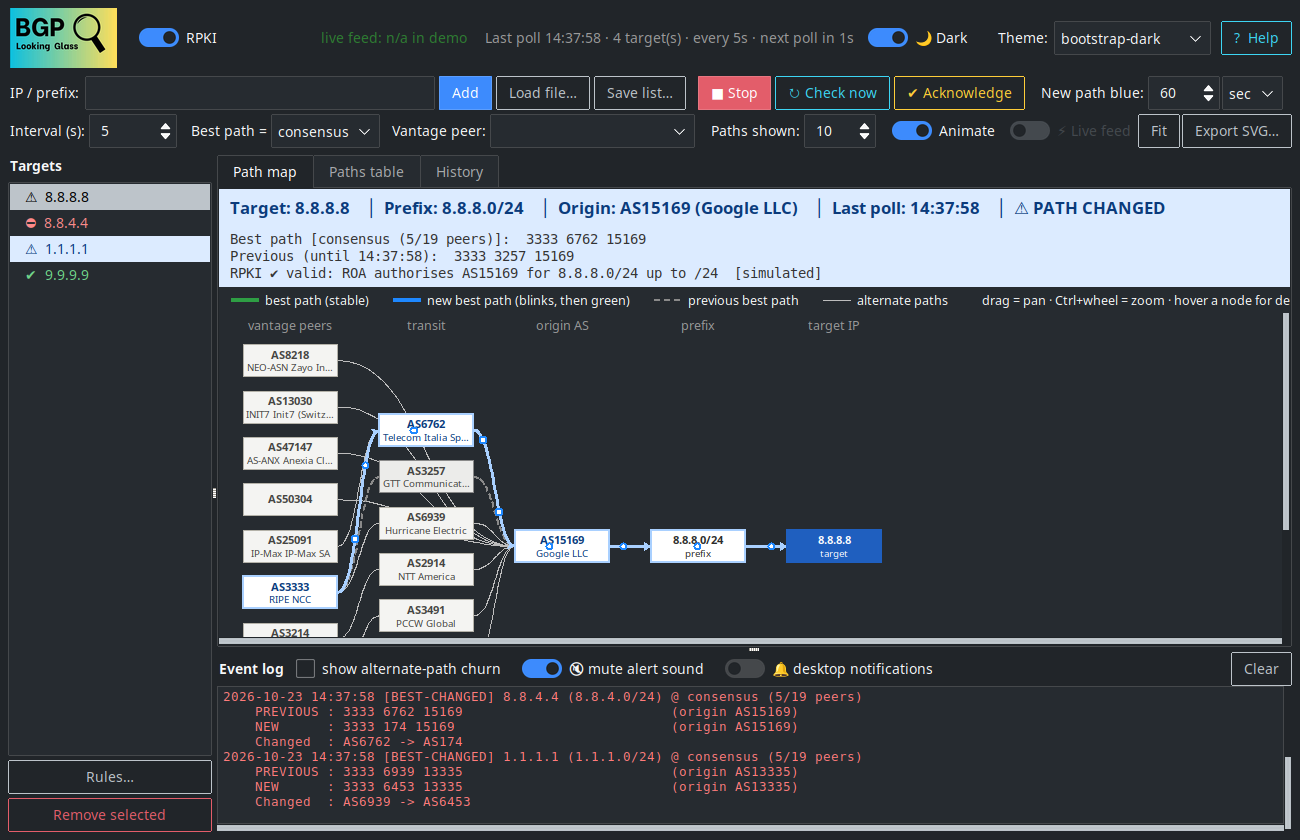
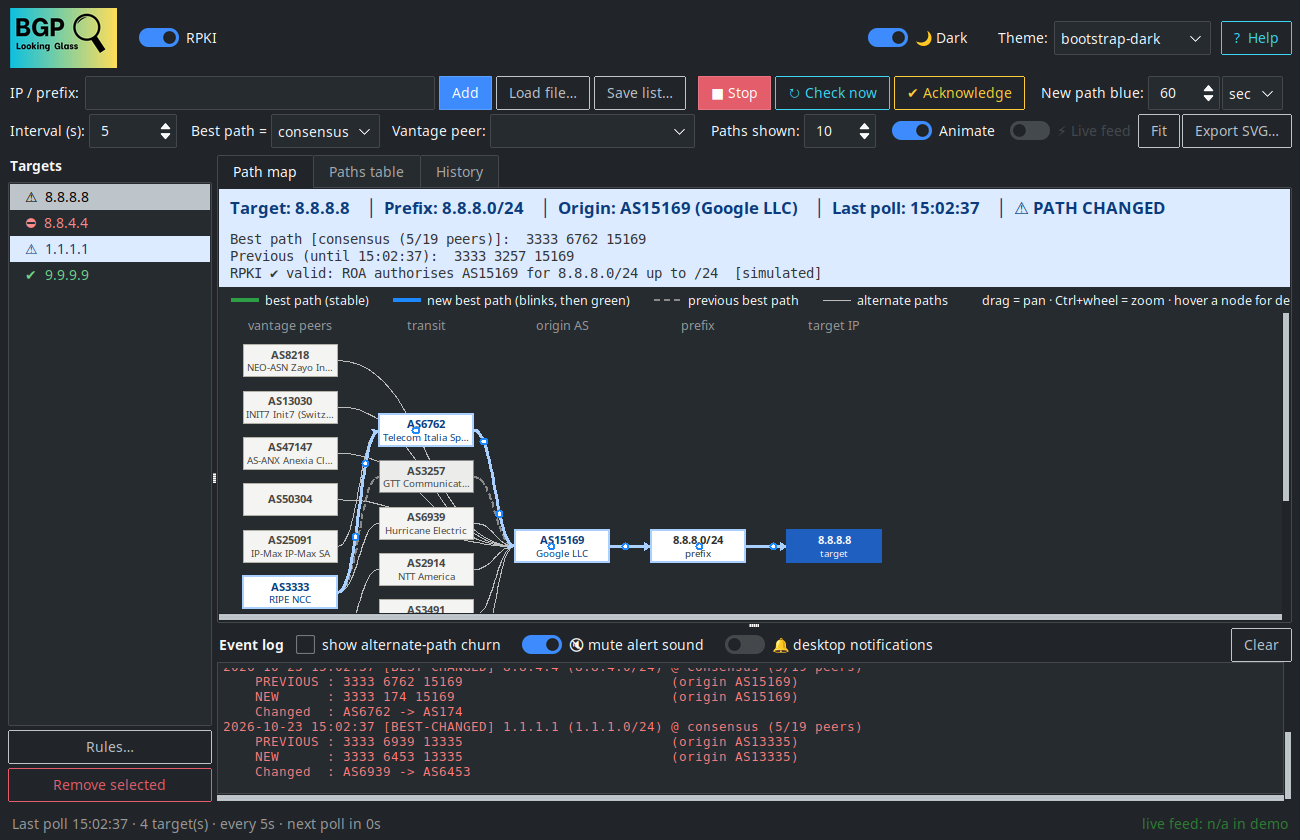
Status bar at the bottom; fit the window to small screens; retake screenshots
The Windows CI screenshot (1024x768 runner) showed the poll status and the
live-feed label overlapping in the crowded header and the window taller than
the screen. Both status labels now live in a bottom status bar, and the
default window size is clamped to the screen.

diff --git a/bgpwatch/gui.py b/bgpwatch/gui.py
@@ -89,8 +89,9 @@ class BGPWatchApp:
         self._poll_pause = monitor.pause_between
 
         root.title("BGP LookingGlass" + ("  [DEMO DATA]" if demo else ""))
-        root.geometry("1280x820")
-        root.minsize(900, 600)
+        sw, sh = root.winfo_screenwidth(), root.winfo_screenheight()   # small laptop screens
+        root.geometry(f"{min(1280, sw - 20)}x{min(820, sh - 90)}")
+        root.minsize(min(900, sw - 20), min(600, sh - 90))
         self._fonts()
         self._style()
         self._build_toolbar()
@@ -213,8 +214,11 @@ class BGPWatchApp:
         self.b_run.pack(side="left")
         ttk.Button(bar, text="↻ Check now", command=self.monitor.check_now, **self._bs("info-outline")).pack(side="left", padx=4)
         ttk.Button(bar, text="✔ Acknowledge", command=self._ack, **self._bs("warning-outline")).pack(side="left")
-        self.l_status = ttk.Label(head, text="Stopped", foreground="#666")
-        self.l_status.pack(side="right", padx=(0, 12))
+        # status bar along the bottom: poll status on the left, live-feed state on the right
+        statusbar = ttk.Frame(self.root, padding=(10, 2, 10, 4))
+        statusbar.pack(side="bottom", fill="x")
+        self.l_status = ttk.Label(statusbar, text="Stopped", foreground="#666")
+        self.l_status.pack(side="left")
 
         bar2 = ttk.Frame(self.root, padding=(8, 2, 8, 6))
         bar2.pack(fill="x")
@@ -263,8 +267,8 @@ class BGPWatchApp:
         self.cb_live = ttk.Checkbutton(bar2, text="⚡ Live feed", variable=self.v_live,
                                        command=self._toggle_live, **self._bs("round-toggle"))
         self.cb_live.pack(side="left", padx=(14, 4))
-        self.l_live = ttk.Label(head, text="", foreground="#2e7d32")
-        self.l_live.pack(side="right", padx=(0, 14))
+        self.l_live = ttk.Label(statusbar, text="", foreground="#2e7d32")
+        self.l_live.pack(side="right")
         ttk.Button(bar2, text="Fit", width=4, command=self._fit, **self._bs("secondary-outline")).pack(side="right", padx=2)
         ttk.Button(bar2, text="−", width=3, command=lambda: self._zoom_by(1 / 1.2), **self._bs("secondary-outline")).pack(side="right")
         ttk.Button(bar2, text="+", width=3, command=lambda: self._zoom_by(1.2), **self._bs("secondary-outline")).pack(side="right")
